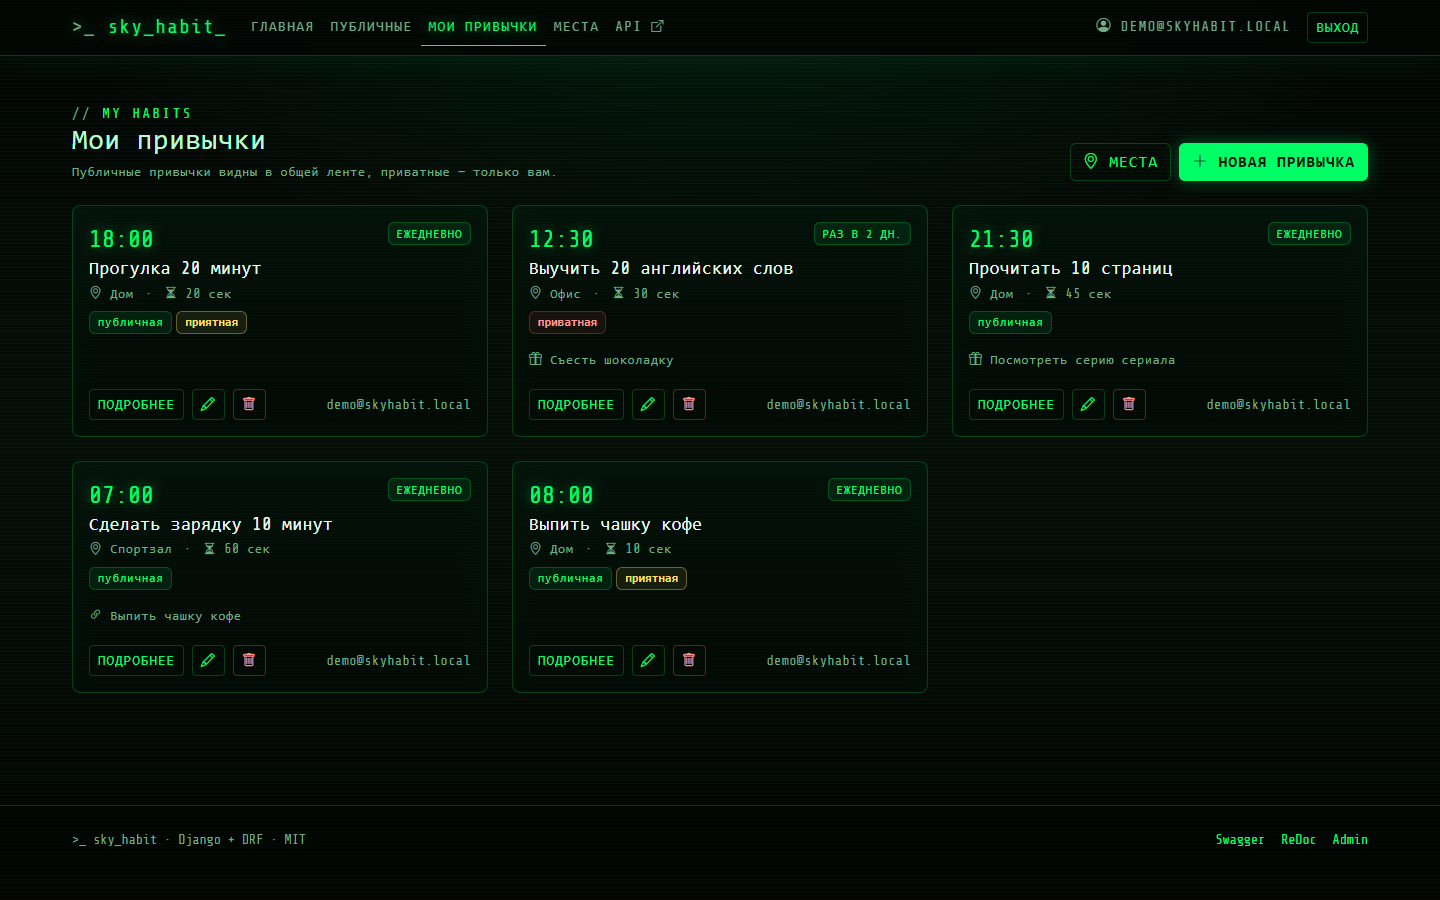
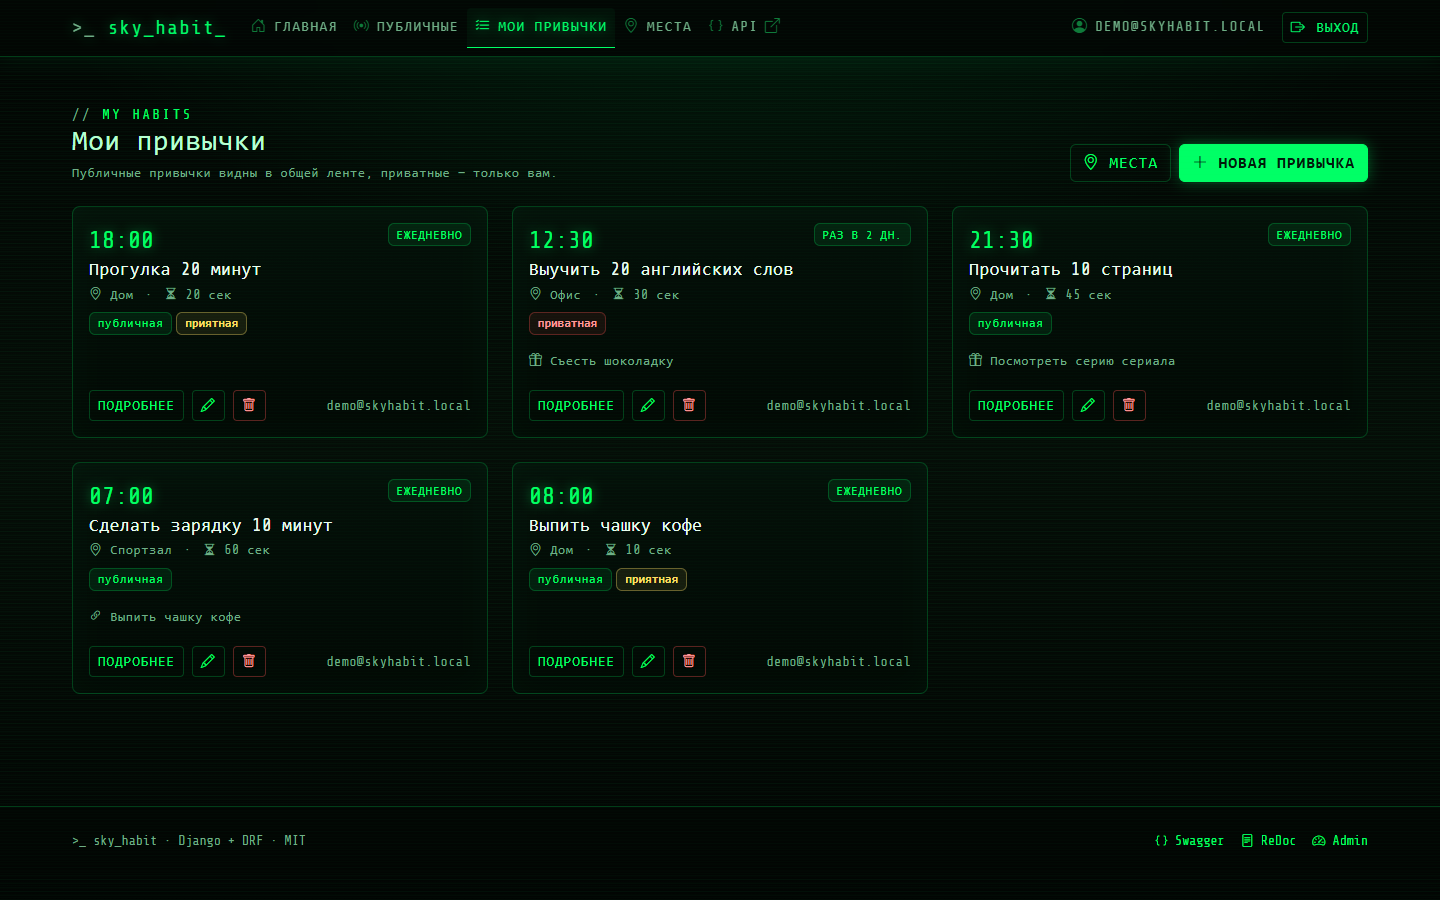
Увеличил скриншоты в README и добавил иконки в меню

diff --git a/templates/base.html b/templates/base.html
@@ -51,29 +51,29 @@
           <ul class="navbar-nav me-auto mb-2 mb-lg-0">
             <li class="nav-item">
               <a class="nav-link {% if request.resolver_match.view_name == 'home' %}active{% endif %}" href="{% url 'home' %}">
-                Главная
+                <i class="bi bi-house-door"></i> Главная
               </a>
             </li>
             <li class="nav-item">
               <a class="nav-link {% if request.resolver_match.view_name == 'habits_web:public-list' %}active{% endif %}" href="{% url 'habits_web:public-list' %}">
-                Публичные
+                <i class="bi bi-broadcast"></i> Публичные
               </a>
             </li>
             {% if user.is_authenticated %}
               <li class="nav-item">
                 <a class="nav-link {% if request.resolver_match.view_name == 'habits_web:list' %}active{% endif %}" href="{% url 'habits_web:list' %}">
-                  Мои привычки
+                  <i class="bi bi-list-check"></i> Мои привычки
                 </a>
               </li>
               <li class="nav-item">
                 <a class="nav-link {% if request.resolver_match.view_name == 'habits_web:place-list' or request.resolver_match.view_name == 'habits_web:place-create' or request.resolver_match.view_name == 'habits_web:place-edit' or request.resolver_match.view_name == 'habits_web:place-delete' %}active{% endif %}" href="{% url 'habits_web:place-list' %}">
-                  Места
+                  <i class="bi bi-geo-alt"></i> Места
                 </a>
               </li>
             {% endif %}
             <li class="nav-item">
               <a class="nav-link" href="{% url 'swagger-ui' %}" target="_blank" rel="noopener">
-                API <i class="bi bi-box-arrow-up-right small"></i>
+                <i class="bi bi-braces"></i> API <i class="bi bi-box-arrow-up-right small"></i>
               </a>
             </li>
           </ul>
@@ -88,17 +88,21 @@
               <li class="nav-item">
                 <form method="post" action="{% url 'users_web:logout' %}">
                   {% csrf_token %}
-                  <button type="submit" class="btn btn-sm btn-outline-matrix w-100">Выход</button>
+                  <button type="submit" class="btn btn-sm btn-outline-matrix w-100">
+                    <i class="bi bi-box-arrow-right"></i> Выход
+                  </button>
                 </form>
               </li>
             {% else %}
               <li class="nav-item">
                 <a class="nav-link {% if request.resolver_match.view_name == 'users_web:login' %}active{% endif %}" href="{% url 'users_web:login' %}">
-                  Вход
+                  <i class="bi bi-box-arrow-in-right"></i> Вход
                 </a>
               </li>
               <li class="nav-item">
-                <a class="btn btn-sm btn-matrix w-100" href="{% url 'users_web:register' %}">Регистрация</a>
+                <a class="btn btn-sm btn-matrix w-100" href="{% url 'users_web:register' %}">
+                  <i class="bi bi-person-plus"></i> Регистрация
+                </a>
               </li>
             {% endif %}
           </ul>
@@ -115,9 +119,9 @@
       <div class="container d-flex flex-column flex-md-row justify-content-between gap-2">
         <span>&gt;_ sky_habit · Django + DRF · MIT</span>
         <span class="d-flex gap-3">
-          <a href="{% url 'swagger-ui' %}">Swagger</a>
-          <a href="{% url 'redoc' %}">ReDoc</a>
-          <a href="/admin/">Admin</a>
+          <a href="{% url 'swagger-ui' %}"><i class="bi bi-braces"></i> Swagger</a>
+          <a href="{% url 'redoc' %}"><i class="bi bi-file-text"></i> ReDoc</a>
+          <a href="/admin/"><i class="bi bi-speedometer2"></i> Admin</a>
         </span>
       </div>
     </footer>

diff --git a/static/css/matrix.css b/static/css/matrix.css
@@ -106,18 +106,40 @@ h6 {
 }
 
 .navbar-matrix .nav-link {
+  display: inline-flex;
+  gap: 0.4rem;
+  align-items: center;
+  padding-inline: 0.55rem;
   color: var(--matrix-muted);
   text-transform: uppercase;
   font-size: 0.85rem;
   letter-spacing: 0.12em;
   border-bottom: 1px solid transparent;
+  border-radius: 0.25rem 0.25rem 0 0;
+}
+
+.navbar-matrix .nav-link i {
+  color: var(--matrix-green-dim);
+  font-size: 0.95rem;
+  transition: color 0.15s ease, text-shadow 0.15s ease;
 }
 
 .navbar-matrix .nav-link:hover,
 .navbar-matrix .nav-link.active {
   color: var(--matrix-green);
   text-shadow: var(--matrix-glow);
+  background: rgba(0, 255, 102, 0.04);
   border-bottom-color: var(--matrix-green);
+}
+
+.navbar-matrix .nav-link:hover i,
+.navbar-matrix .nav-link.active i {
+  color: var(--matrix-green);
+  text-shadow: var(--matrix-glow);
+}
+
+.navbar-matrix .btn i {
+  margin-right: 0.15rem;
 }
 
 .navbar-toggler {

diff --git a/README.md b/README.md
@@ -41,17 +41,25 @@ Backend и веб-интерфейс трекера привычек на Django
 
 ## Скриншоты
 
-| Swagger UI | ReDoc |
-|---|---|
-| ![Swagger UI](docs/screenshots/swagger.png) | ![ReDoc](docs/screenshots/redoc.png) |
+### Веб-интерфейс
 
-| Админка | Публичные привычки (API) |
-|---|---|
-| ![Админка Django](docs/screenshots/admin-habits.png) | ![Публичные привычки](docs/screenshots/api-public-habits.png) |
+![Главная страница](docs/screenshots/ui-home.png)
 
-| Веб-интерфейс | Мои привычки |
-|---|---|
-| ![Главная страница](docs/screenshots/ui-home.png) | ![Мои привычки](docs/screenshots/ui-habits.png) |
+![Мои привычки](docs/screenshots/ui-habits.png)
+
+![Форма привычки](docs/screenshots/ui-habit-form.png)
+
+![Профиль и Telegram-настройки](docs/screenshots/ui-profile.png)
+
+### API и админка
+
+![Swagger UI](docs/screenshots/swagger.png)
+
+![ReDoc](docs/screenshots/redoc.png)
+
+![Админка Django](docs/screenshots/admin-habits.png)
+
+![Публичные привычки в API](docs/screenshots/api-public-habits.png)
 
 ## Быстрый старт
 
